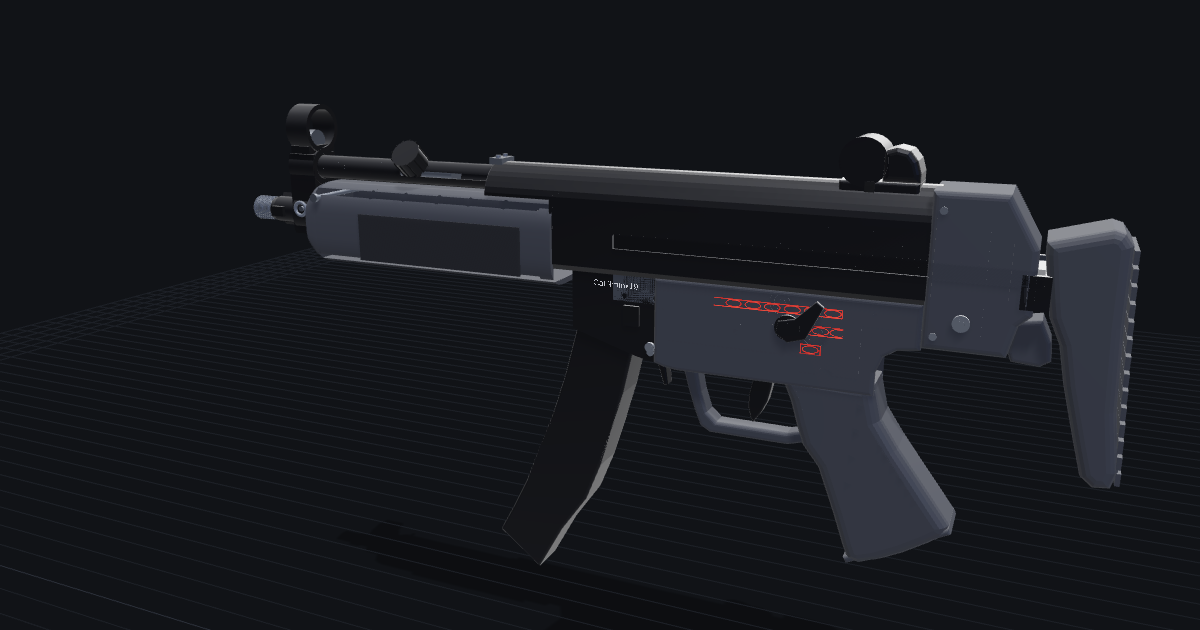
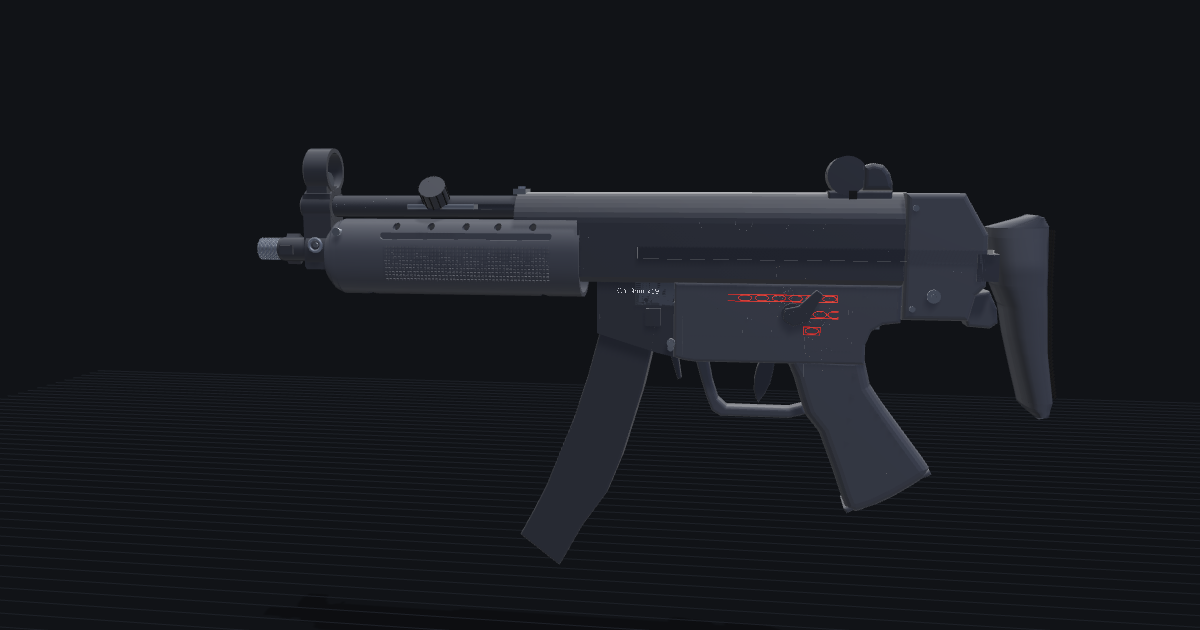
mp5: refine the outside from Airsoft GI's close-up photos
Round-sided handguard with the side groove and a grid of stipple nubs,
a lofted butt with a checkered pad, the cocking slot and its notch moved
to match the photos, and a matte finish in place of the glossy blued.

Changed region(s): [[0.2158, 0.1508, 0.9558, 0.9048]]

diff --git a/mp5/index.html b/mp5/index.html
@@ -220,7 +220,7 @@ grid.position.y = -329.5; scene.add(grid);
 const MAT = {
   alu:    { color: 0x3b3f46, metalness: 0.7,  roughness: 0.4 },
   steel:  { color: 0x6b7079, metalness: 0.9,  roughness: 0.32 },
-  blued:  { color: 0x1b1c20, metalness: 0.6,  roughness: 0.45 },
+  blued:  { color: 0x2c2e33, metalness: 0.3,  roughness: 0.62 },    // VFC's finish is a matte black coat, close to the polymer
   dark:   { color: 0x464a52, metalness: 0.8,  roughness: 0.38 },
   zinc:   { color: 0x4d5158, metalness: 0.7,  roughness: 0.45 },
   poly:   { color: 0x2e3035, metalness: 0.0,  roughness: 0.72 },
@@ -657,7 +657,8 @@ function part(id, name, cat, nos, explode, info, pieces, opts = {}) {
 // of the receiver under the cocking tube. The outside is traced from VFC's left-side product photo (1280px, muzzle to the
 // left, stock collapsed) at 2.206 px/mm: VFC gives 500mm with the stock in, which the photo spans in 1103px, and the 14mm
 // muzzle thread then measures 30px. The gearbox is a standard V2 (D-RZ's teardown video), traced from the Stoner page's
-// V2 shell and placed so the motor lies on the grip's axis; inside parts are approximate.
+// V2 shell and placed so the motor lies on the grip's axis; inside parts are approximate. Round sections, the handguard's
+// groove and stippling, and the butt's checkered pad follow Airsoft GI's close-up photos of the A5.
 const K = 2.206, OX = 560, OY = 212.7;
 const X = px => (OX - px) / K, Y = py => (OY - py) / K;
 const P = pts => pts.map(([a, b]) => [X(a), Y(b)]);
@@ -669,7 +670,7 @@ const TL = [X(160), X(113)];                         // tri-lug collar
 const FS = [X(199), X(158)];                         // front sight housing
 const CT = { y: Y(150.5), r: 7, x0: 1.5, x1: X(199) };   // cocking tube, welded along the top of the receiver
 const RCV = { x0: X(990), x1: X(470), xb: 1.5, top: Y(131), bot: Y(250), hw: 18, cy: 19 };   // receiver: back, nose, front below the tube
-const HG = { x0: 1.5, x1: X(199), top: Y(168), bot: Y(275), hw: 21 };
+const HG = { x0: 1.5, x1: X(199), top: Y(168), bot: Y(275), hw: 22 };
 const NOZ_TIP = -20.9, D = NOZ_TIP + 141;           // nozzle tip; shift from the Stoner page's gearbox frame
 const HOP = [-24, 8], IB = [-18, 190];               // hop-up chamber, 208mm inner barrel
 const GRIP_A = 21.5 * D2R;                           // grip and motor lean, from the photo
@@ -712,17 +713,31 @@ part('slingLoop', 'Sling loop (front)', 'frt', ['05-3'], [200, 40, -60],
 
 // handguard: side traced from the photo, rounded sections, hollow for the battery and the barrel
 const hgSide = P([[560, 168], [214, 168], [205, 172], [199, 182], [199, 260], [205, 270], [214, 275], [560, 275]]);   // back top, round the nose, back bottom (loftX order)
+const HG_N = 2.4;                                    // superellipse power of the section: the A5 handguard is round-sided, not boxy
+// z of the handguard's outer skin at height y, in the straight run behind the nose (top and bottom edges are level there)
+const hgZ = (y, hw = HG.hw) => { const t = Math.min(0.999, Math.abs((y - (HG.top + HG.bot) / 2) / ((HG.top - HG.bot) / 2))); return hw * (1 - t ** HG_N) ** (1 / HG_N); };
+// the grip panel: a grid of square nubs on the skin, 2.3mm pitch (about 47 by 23 on VFC's photo)
+function stippleNubs(s) {
+  const g = [], x0 = X(520), x1 = X(288), y0 = Y(253), y1 = Y(204), p = 2.3;
+  for (let x = x0 + p / 2; x < x1; x += p) for (let y = y0 + p / 2; y < y1; y += p) {
+    const z = hgZ(y), a = Math.atan2(hgZ(y + 0.5) - hgZ(y - 0.5), 1);
+    g.push(new THREE.BoxGeometry(1.35, 1.35, 1.2).rotateX(s * a).translate(x, y, s * (z + 0.25)));
+  }
+  return mergeGeometries(g);
+}
 part('handguard', 'Handguard', 'frt', ['03-3'], [140, -150, 0],
-  'Polymer handguard with the stippled grip panels and the row of vent holes under the cocking tube. It holds the battery (the A5\'s stock has no room for one) and is held by a single pin at the front: push it out and the handguard comes off forward.',
+  'Polymer handguard with the stippled grip panels, a long groove along each side above them and the row of vent holes under the cocking tube. It holds the battery (the A5\'s stock has no room for one) and is held by a single pin at the front: push it out and the handguard comes off forward.',
   (() => {
-    const shell = cut(loftX(hgSide, () => HG.hw, 3.2, 40, 4), [
-      bx(8, 158, -25, 17.5, -18, 18),                                                // battery space
-      cyl(8.4, 30, 'x', 170, 0, 0, 24), bx(-5, 8, -25, 17.5, -17, 17),             // barrel through the nose, open at the back
+    const hgIn = [[-5, HG.top - 2.6], [152, HG.top - 2.6], [152, HG.bot + 2.6], [-5, HG.bot + 2.6]];
+    const groove = s => slab(rr(X(522), X(279), Y(195), Y(185), 2.2, 3), 0, 1).scale(1, 1, 20).translate(0, 0, s * (hgZ(Y(190)) - 1.1) + (s > 0 ? 0 : -20));
+    const shell = cut(loftX(hgSide, () => HG.hw, HG_N, 48, 4), [
+      loftX(hgIn, () => HG.hw - 2.6, HG_N, 48, 6),                                  // battery space, open at the back
+      cyl(8.4, 30, 'x', 170, 0, 0, 24),                                              // barrel through the nose
+      groove(1), groove(-1),
       ...[300, 350, 400, 445, 494].flatMap(px => [cyl(2.3, 60, 'z', X(px), Y(178), 0, 16)]),   // vent holes
       ...[255, 505].map(px => cyl(3.4, 60, 'z', X(px), Y(278), 0, 16)),             // scallops in the bottom edge
       cyl(1.6, 60, 'z', X(219), Y(185), 0, 12)]);                                  // pin hole
-    const panel = s => [prof(P([[285, 202], [520, 202], [520, 262], [285, 262]]), 0.6, 0).translate(0, 0, s * (HG.hw + 0.2)), 'stipple'];
-    return [[shell, 'poly'], panel(1), panel(-1)];
+    return [[shell, 'poly'], [stippleNubs(1), 'poly'], [stippleNubs(-1), 'poly']];
   })(), { shell: true });
 
 part('hgPin', 'Handguard pin', 'frt', ['03-4'], [140, -80, -90],
@@ -748,9 +763,9 @@ part('receiver', 'Upper receiver (with cocking tube)', 'rcv', ['01-2'], [0, 0, 0
       bx(-48, -10.4, -20, -12, -12.8, 12.8),                                           // magazine well opening
       bx(X(985), X(688), -20, -12, -15.5, 15.5),                                       // lower receiver opening
       bx(-50, -8, 4, 22, 10, 25),                                                     // ejection port (right)
-      ...[1, -1].map(s => bx(-196, -36, -3, 5, s * 16.6, s * 25))]);                  // stock rail tracks
+      ...[1, -1].map(s => bx(-196, -36, -3, 5, s * 17.1, s * 25))]);                  // stock rail tracks
     const tubeG = cut(latheX([[0, CT.x0], [CT.r, CT.x0], [CT.r, CT.x1], [0, CT.x1]], 28, CT.y),
-      [latheX([[0, CT.x0 + 5], [CT.r - 1, CT.x0 + 5], [CT.r - 1, CT.x1 + 2], [0, CT.x1 + 2]], 24, CT.y), bx(X(553), X(330), CT.y - 1.6, CT.y + 1.6, -10, -3)]);
+      [latheX([[0, CT.x0 + 5], [CT.r - 1, CT.x0 + 5], [CT.r - 1, CT.x1 + 2], [0, CT.x1 + 2]], 24, CT.y), bx(X(505), X(310), CT.y - 1.6, CT.y + 1.6, -10, -3), bx(X(505), X(493), CT.y - 1.6, CT.y + 5, -10, -2)]);
     const well = cut(slab(MAGWELL, -15, 15), [slab(shrink(MAGP, -0.8), -MAG_HW - 0.8, MAG_HW + 0.8), cyl(1.6, 40, 'z', X(685), Y(332), 0, 12)]);
     return [[body, 'blued'], [tubeG, 'blued'], [well, 'blued'],
       decal('calDecal', ['Cal.9mmx19'], X(668), X(610), Y(270), Y(257), -15.1, { bold: false })];
@@ -1031,9 +1046,19 @@ const BUTT = P([[1093, 175], [1150, 159], [1160, 162], [1168, 173], [1169, 253],
   [1137, 370], [1123, 317], [1115, 277], [1103, 250], [1100, 233], [1093, 187]]);
 part('stock', 'Retractable stock (rails + butt)', 'stk', ['04-17'], [-640, 0, 0],
   'The A5 stock: two steel rails that slide along the grooves in the receiver sides, joined by a yoke to the butt. Collapsed it gives VFC\'s 500mm; pulled out, 650mm.',
-  [[profR(BUTT, 40, 5), 'poly'],
-   ...Array.from({ length: 14 }, (_, i) => { const t = (i + 0.5) / 14, y = Y(175) + (Y(415) - Y(175)) * t, x = X(1168) + (X(1180) - X(1168)) * t; return [bx(x - 2.2, x, y - 3, y + 3, -18, 18), 'poly']; }),
-   ...[1, -1].map(s => [bx(X(1095), -36, -2.6, 4.6, s * 16.8, s * 19.6), 'dark']),
+  [[loftX([[1160, 420], [1177, 418], [1182, 400], [1173, 337], [1169, 253], [1168, 173], [1160, 162], [1150, 159], [1093, 175], [1093, 187], [1100, 233],
+      [1103, 250], [1115, 277], [1123, 317], [1137, 370], [1148, 410]].map(([px, py]) => [Y(py), -X(px)]),        // lofted upright: bottom, up the back, down the front
+      u => u > Y(225) ? 15 + 5 * (Y(160) - u) / (Y(160) - Y(225)) : 20, 3, 36, 3).rotateZ(Math.PI / 2), 'poly'],
+   [(() => {                                         // the rubber pad's checkering: pyramids in a grid across the back face
+     const edge = [[173, 1168], [253, 1169], [337, 1173], [400, 1182]], g = [];
+     for (let py = 180; py <= 396; py += 4.6) {
+       let i = 1; while (i < edge.length - 1 && py > edge[i][0]) i++;
+       const [[pa, xa], [pb, xb]] = [edge[i - 1], edge[i]], px = xa + (xb - xa) * (py - pa) / (pb - pa), tilt = Math.atan2((xb - xa) / K, (pb - pa) / K);
+       for (let k = -3.5; k <= 3.5; k++) g.push(new THREE.ConeGeometry(1.9, 1.6, 4, 1).rotateY(Math.PI / 4).rotateZ(Math.PI / 2 + tilt).translate(X(px) - 0.5, Y(py), k * 4.6));
+     }
+     return mergeGeometries(g.map(q => q.toNonIndexed()));
+   })(), 'black'],
+   ...[1, -1].map(s => [bx(X(1095), -36, -2.6, 4.6, s * 17.3, s * 19.8), 'dark']),
    [bx(X(1102), X(1075), Y(243), Y(208), -20, 20), 'blued']]);
 
 // ================= MAGAZINE =================
@@ -1173,6 +1198,7 @@ const SOURCES = `<p class="src">Sources: <a href="https://get.vegaforce.com/down
 <a href="https://www.youtube.com/watch?v=yAk1HI4xbGk">D-RZ Airsoft, MP5 gearbox removal</a> (strip order, the V2 gearbox and its long trigger),
 <a href="https://www.youtube.com/watch?v=ebjZYhMQG_8">Umarex H&amp;K MP5 AEG disassembly video</a> (the pins and the handguard),
 <a href="https://www.redwolfairsoft.com/blog/umarex-mp5-a5-aeg-review">Redwolf MP5 A5 AEG review</a> (14mm anticlockwise thread),
+<a href="https://www.airsoftgi.com/Spotlight/HKMP5/index.html">Airsoft GI MP5 spotlight</a> (close-up photos: handguard section, groove and stippling, the stock's butt pad, the cocking slot, the finish),
 <a href="../stoner96/">Stoner 96 page</a> (the V2 shell trace). Part names are ours; inside shapes and positions are approximate.</p>`;
 function showOverview() {
   infoBody.innerHTML = `<h2>VFC / Umarex MP5 A5 AEG</h2>
